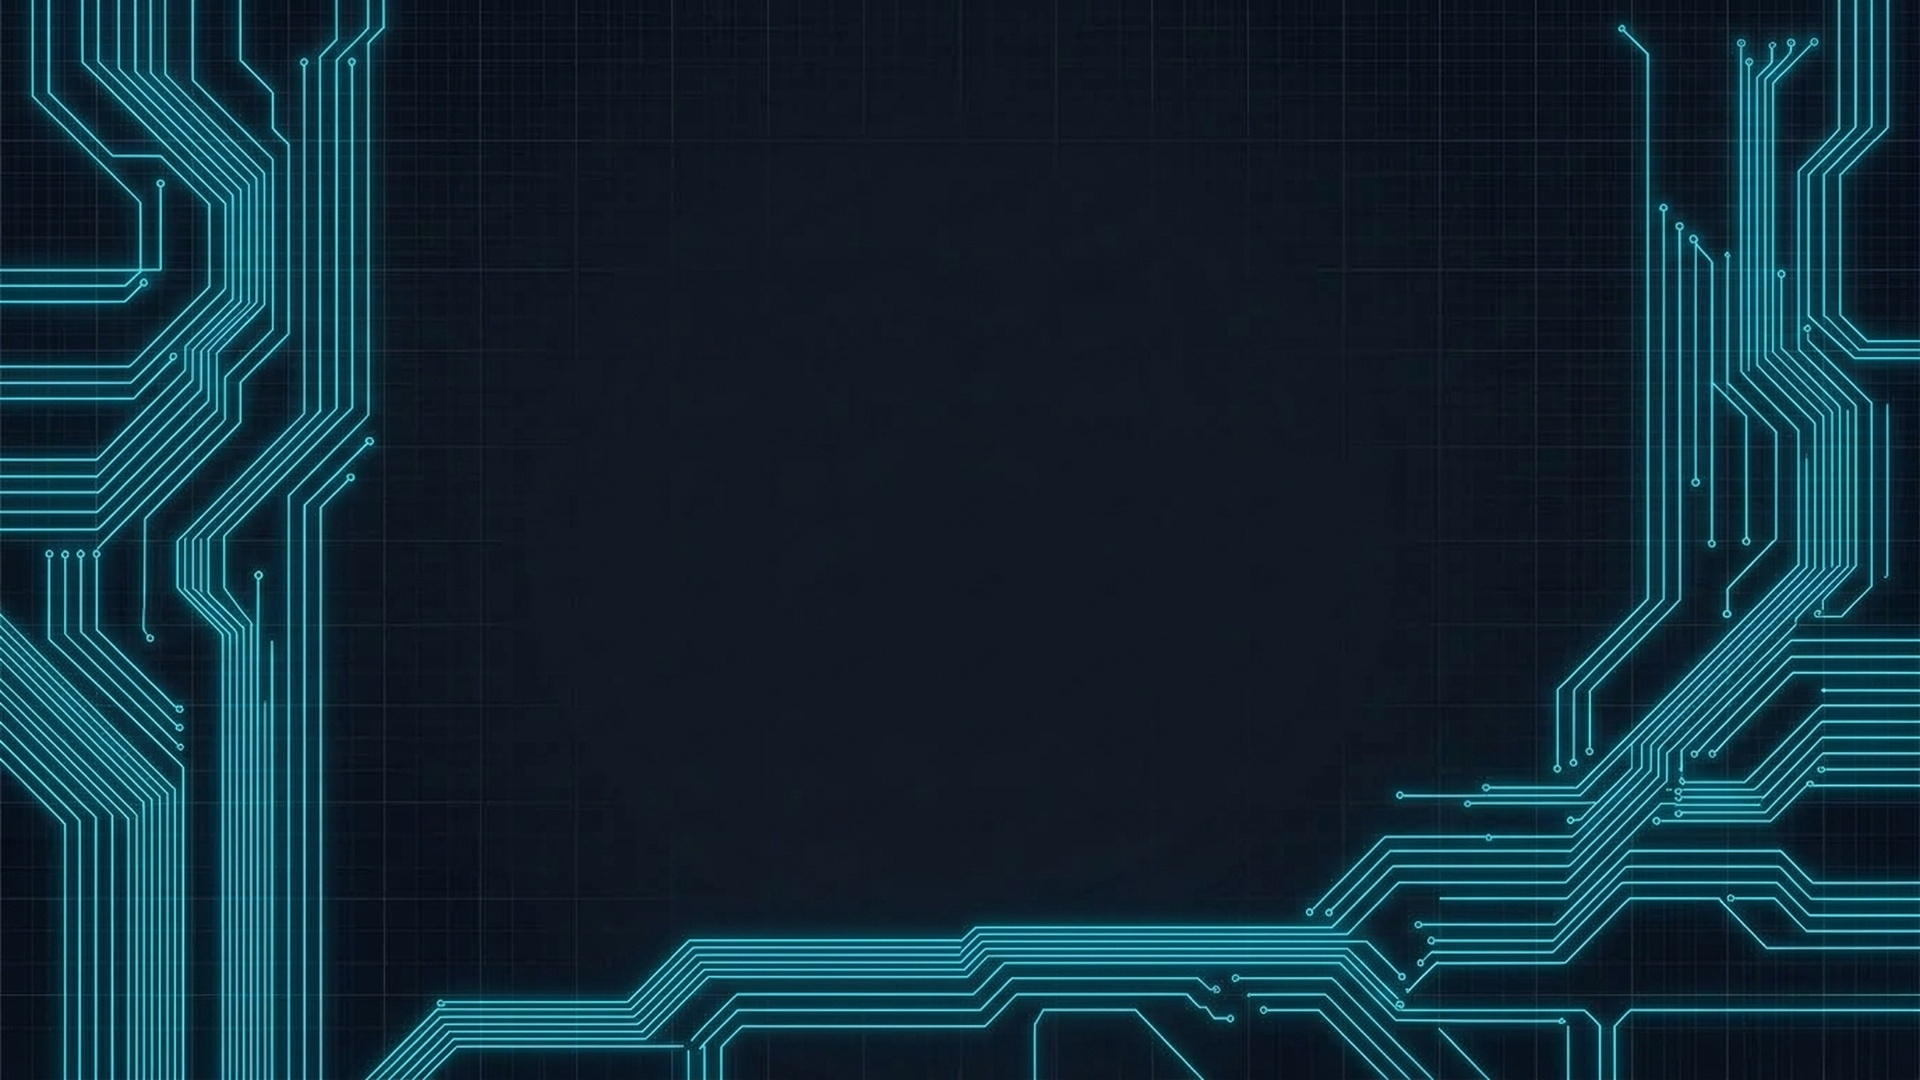
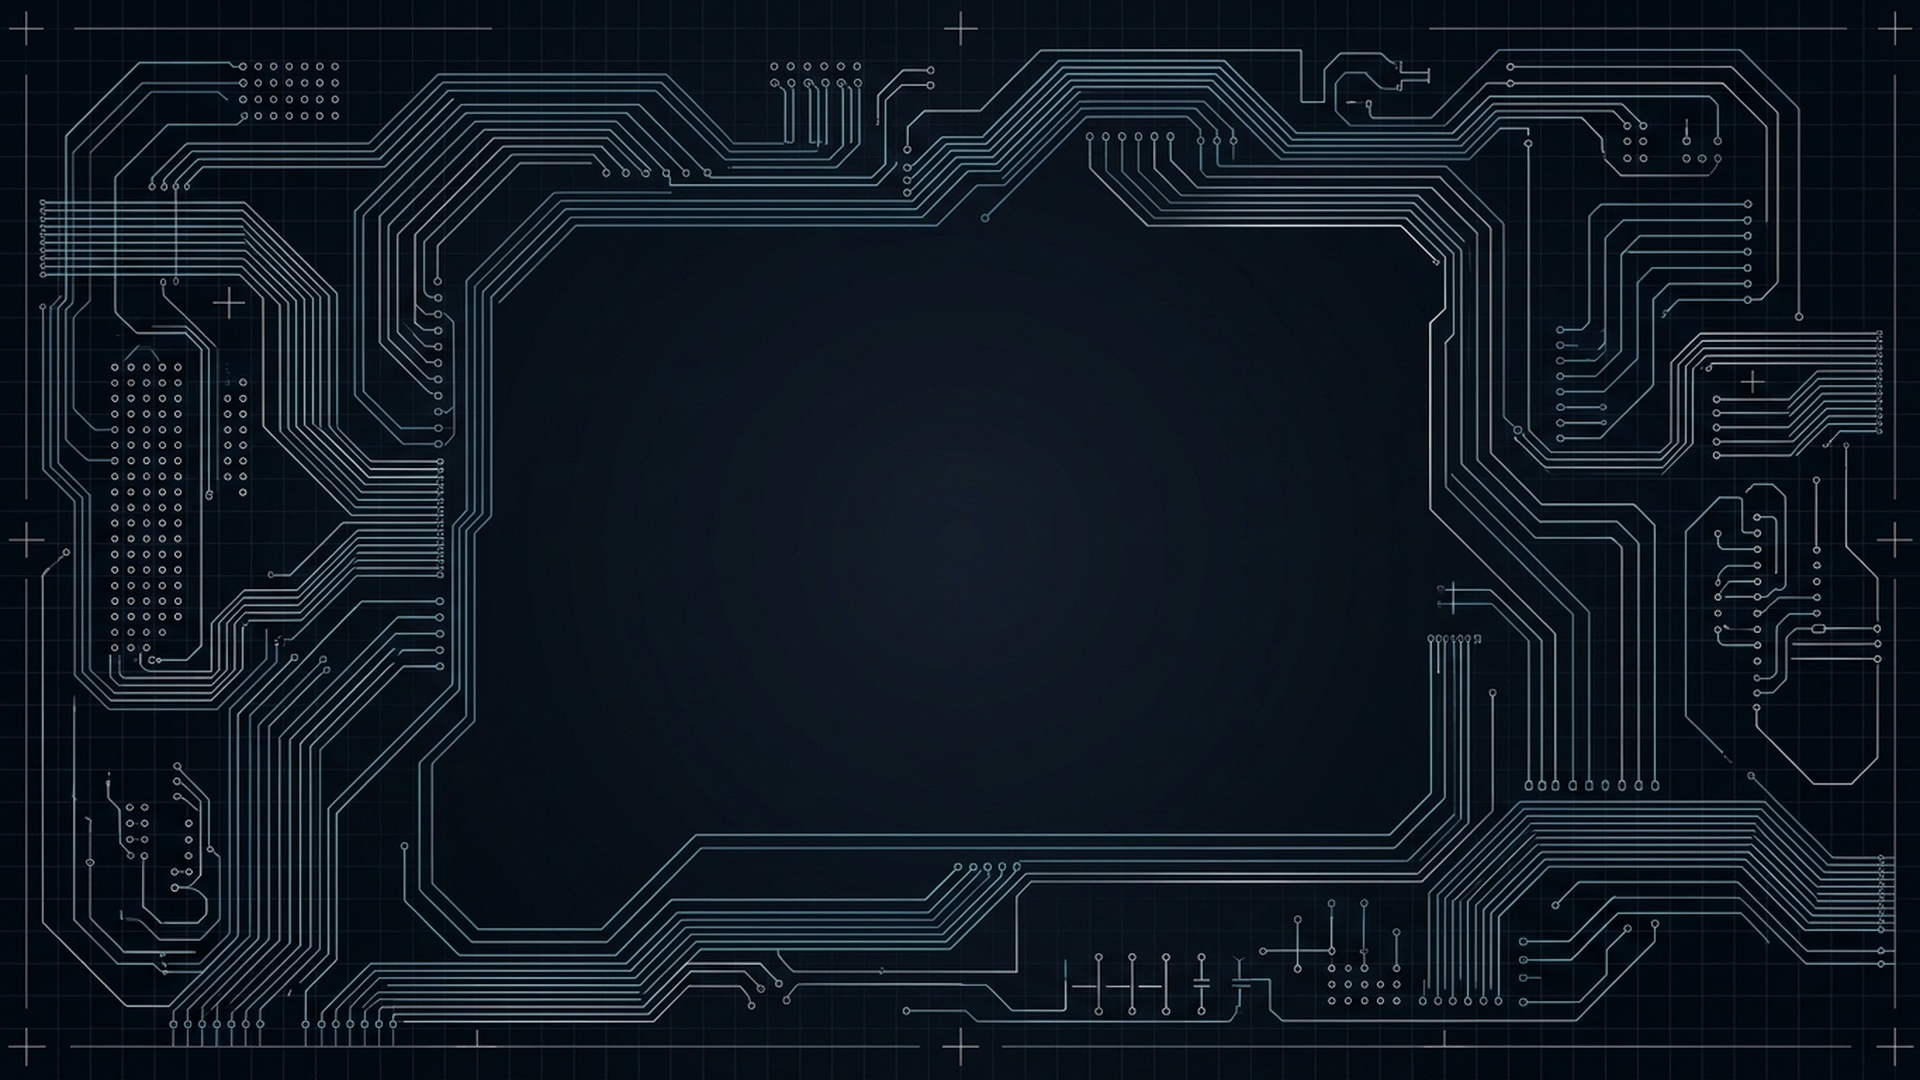
circuit board

diff --git a/frontend/sw.js b/frontend/sw.js
@@ -1,4 +1,4 @@
-const CACHE_NAME = 'rj-portfolio-v29';
+const CACHE_NAME = 'rj-portfolio-v30';
 const CACHE_EXPIRATION_DAYS = 7;
 const CACHE_EXPIRATION_MS = CACHE_EXPIRATION_DAYS * 24 * 60 * 60 * 1000;
 

diff --git a/.claude/specs/2026-09-17-circuit-backdrop-redesign.md b/.claude/specs/2026-09-17-circuit-backdrop-redesign.md
@@ -1,0 +1,202 @@
+# Technical Specification: Bespoke Data-Engineering Circuit Schematic Backdrop Redesign
+
+**Related Intent**: [.claude/intents/2026-09-17-circuit-backdrop-redesign.md](file:///c:/Users/inbox_inm6dkz/OneDrive/Documents/GitHub/rjWebApp/.claude/intents/2026-09-17-circuit-backdrop-redesign.md)  
+**Target Audience**: Visitor / Recruiter (uncompromising aesthetic beauty, instant engineering authority), Work Sample (clean vanilla CSS architecture, zero framework bloat)
+
+---
+
+## 1. Architectural Impact & Component Overview
+
+- **Impacted Layers**:
+  - [x] Graphic Assets (`assets/site-backdrop-master.jpg`, `frontend/site-backdrop.webp`, `frontend/site-backdrop.jpg`)
+  - [x] Frontend Stylesheet (`frontend/styles.css` — tokens `--backdrop-scrim`, `--backdrop-tint`, `.site-backdrop` blend rules)
+  - [x] Asset Build Pipeline (`scripts/generate_backdrop.py`)
+  - [ ] Standalone App Pages (`frontend/arcade.*`, `cron.*`, `crypto.*`, `json.*`, `diff.*`, `ucl.html`, `worldcup.html`) — **Strictly untouched by design**
+  - [ ] Backend API & Services — N/A
+  - [ ] Database Schema & Migrations — N/A
+
+---
+
+## 2. Artistic & UI/UX Composition Blueprint: "The Silicon Pipeline"
+
+### 2.1 Thematic Translation: Hardware Clipart vs. Distributed Data Architecture
+
+A principal data engineer's portfolio requires a visual identity rooted in **data streams, partitioned buses, pipeline DAGs, and distributed state**, not generic electronic solder pads or broken stock clipart rulers.
+
+| Graphic Element | Legacy Backdrop (The Problem) | Redesigned "Silicon Pipeline" (The Solution) |
+| :--- | :--- | :--- |
+| **Perimeter Frame** | Garbled stock ruler markings (`170 170`, `260 260 280 270`, `min min`, OCR artifacts). | Clean calibration ticks, subtle coordinate registers (`SYS_X`, `SYS_Y`), and precision alignment reticles (+). |
+| **Center Viewport** | 5 solid-bordered rectangular boxes (`COMPUTE MODULE 04`, `DATA PROCESE`, `LOGGIC`) with misspellings directly occluding content. | **Open Central Content Aperture (65% width)** with zero solid boxes. Traces attenuate cleanly before entering the reading zone. |
+| **Trace Topology** | Random, chaotic circuit lines intersecting indiscriminately without clear hierarchy. | **Multi-lane orthogonal data bus ribbons** (45° and 90° PCB-grade traces) mirroring distributed Kafka pipelines, partition fan-outs, and consensus trees. |
+| **Micro-Annotations** | Illegible gibberish, blurry AI artifacts, and misspelled English. | Razor-sharp technical monospace micro-labels: `INGEST_BUS_01`, `SHARD_PARTITION[0..15]`, `STREAM_SYNC_OK`, `DAG_NODE_ALPHA`, `BUFFER_POOL`. |
+| **Light Theme Inversion** | Solid dark rectangles invert to dirty, muddy grey blocks under cards. | Fine hairline strokes (1px–2px) on pure dark ground invert cleanly into a **crisp architectural blueprint / technical drafting vellum**. |
+
+---
+
+### 2.2 Spatial Layout & Coordinate Architecture (1920 × 1080 Native Frame)
+
+The composition follows an **orchestrated framing hierarchy**:
+
+```
+(0,0) ───────────────────────────────────────────────────────────────── (1920,0)
+│  [TOP-LEFT: INGEST CLUSTER]                     [TOP-RIGHT: TELEMETRY NODES] │
+│  - 8-lane parallel partition bus                 - Circular via constellation│
+│  - Clock trace & sync reticles                   - Monospace status registers│
+│  - Stream intake fan-in                          - High-frequency trace tree │
+│                                                                              │
+│             ┌───────────────────────────────────────────────┐                │
+│             │                                               │                │
+│  [LEFT BUS] │           CENTRAL CONTENT APERTURE            │ [RIGHT BUS]    │
+│  - Vertical │                                               │ - Multi-stage  │
+│    spine    │   - 65% width quiet negative space            │   DAG fan-out  │
+│  - Breakout │   - Attenuated hairline traces (<15% opacity) │ - Shard split  │
+│    doglegs  │   - Zero solid boxes or visual collisions     │   buses        │
+│  - Micro-via│   - Perfect backdrop for Hero, About, Resume, │ - Alignment    │
+│    matrix   │     Apps, Activity telemetry, and Terminal    │   fiducials    │
+│             │                                               │                │
+│             └───────────────────────────────────────────────┘                │
+│                                                                              │
+│  [BOTTOM-LEFT: STORAGE FABRIC]               [BOTTOM-RIGHT: CONSENSUS RING]  │
+│  - Horizontal trunk routing                  - Concentric orbital micro-paths│
+│  - Low-profile baseline bus                  - State machine logic vias      │
+(0,1080) ───────────────────────────────────────────────────────────── (1920,1080)
+```
+
+#### Detailed Zone Definitions:
+1. **The Left Pipeline Corridor (X: 0 → 320, Y: 0 → 1080)**:
+   - Primary high-throughput data intake trunk.
+   - Features 8 to 16 parallel micro-traces running vertically, branching into 45° doglegs toward the center before terminating in clean via matrices.
+2. **The Right Pipeline Corridor (X: 1600 → 1920, Y: 0 → 1080)**:
+   - Analytical egress and distributed processing bus.
+   - Interconnected logic gate symbols, memory addressing tracks, and stream aggregation nodes.
+3. **The Upper & Lower Horizons (Y: 0 → 140, Y: 940 → 1080)**:
+   - Perimeter structural bus running horizontally to frame the viewport top and bottom without obstructing navigation bars or footers.
+4. **The Central Content Aperture (X: 320 → 1600, Y: 120 → 960)**:
+   - 90% cleared of high-frequency geometry. Only faint, elegant connective pass-through traces with low opacity survive here, providing continuity between the left and right corridors without interfering with text.
+
+---
+
+## 3. Color Science, Blend Modes & Dual-Theme Contract
+
+The backdrop is rendered as a single dual-mode asset leveraging CSS blend modes and mathematical color mixing:
+
+### 3.1 Dark Theme Contract (Default Presentation)
+- **Asset Ground**: Deep void slate (`#0b0f19` to `#0e1422`).
+- **Trace Coloration**: Precision cool cyan-slate (`#38bdf8` at 60–85% lightness) on the master asset.
+- **Blending Pipeline**:
+  ```css
+  .site-backdrop::before {
+    background-color: var(--backdrop-tint);
+    background-blend-mode: luminosity;
+  }
+  ```
+  - `luminosity` extracts the luminance from the master drawing and adopts the exact hue and saturation of `--backdrop-tint`.
+  - Because `--backdrop-tint` is derived from `color-mix(in srgb, var(--accent-text) 32%, #79899a)`, the circuit traces dynamically harmonize with whichever accent color the visitor chooses in the theme customizer (citron, azure, violet, emerald, amber).
+
+### 3.2 Light Theme Inversion Contract
+- In light mode, the single dark asset is inverted without downloading a second file:
+  ```css
+  body:not(.dark-theme) .site-backdrop::before {
+    filter: invert(1) hue-rotate(180deg) saturate(0.45) brightness(1.04);
+  }
+  ```
+- **Inversion Mechanics**:
+  - `invert(1)` flips `#0e1422` (near-black ground) into `#f1ebdd` (pale blueprint background) and flips the cyan lines into warm tones.
+  - `hue-rotate(180deg)` restores the cool architectural cyan/slate tint.
+  - `saturate(0.45)` and `brightness(1.04)` tone the lines down to a subtle drafting pencil grey-slate (`#94a3b8`).
+  - Because the redesigned master contains **no solid dark fills**, light mode produces an immaculate technical blueprint on drafting paper with zero dirty grey blocks.
+
+### 3.3 Contrast Scrim Token Calibration
+The overlay scrim (`.site-backdrop::after`) ensures that text legibility always surpasses WCAG 2.2 AA (>= 4.5:1) sitewide:
+```css
+:root {
+  --backdrop-scrim: radial-gradient(
+    ellipse 75% 65% at 50% 50%,
+    color-mix(in srgb, var(--bg) 92%, transparent) 0%,
+    color-mix(in srgb, var(--bg) 78%, transparent) 100%
+  );
+  --backdrop-tint: color-mix(in srgb, var(--accent-text) 32%, #79899a);
+}
+
+body.dark-theme {
+  --backdrop-scrim: radial-gradient(
+    ellipse 75% 65% at 50% 50%,
+    color-mix(in srgb, var(--bg) 88%, transparent) 0%,
+    color-mix(in srgb, var(--bg) 75%, transparent) 100%
+  );
+  --backdrop-tint: color-mix(in srgb, var(--accent-text) 35%, #475569);
+}
+```
+
+---
+
+## 4. Asset Generation & Compression Pipeline
+
+1. **Master Graphic Creation**:
+   - Master source file: `assets/site-backdrop-master.jpg` (or `.png`).
+   - Dimensions: 1920 × 1080 (16:9 standard viewport ratio).
+   - Format: RGB lossless PNG or high-quality progressive JPEG (>95 quality).
+2. **Build Transformation via `scripts/generate_backdrop.py`**:
+   - WebP Derivative: `frontend/site-backdrop.webp`
+     - Quality: 82 (tuned to eliminate DCT ringing around 1px hairlines).
+     - Method: 6 (libwebp slowest, optimal compression).
+     - Expected size: ~70–90 KB.
+   - JPEG Fallback: `frontend/site-backdrop.jpg`
+     - Quality: 86 with Huffman optimization and progressive scans.
+     - Expected size: ~180–220 KB.
+3. **Build Bundling**:
+   - `scripts/build.mjs` (esbuild) reads `site-backdrop.webp` and `site-backdrop.jpg` through `image-set()` in `styles.css`, content-hashes them into `dist/assets/`, and rewrites references.
+
+---
+
+## 5. Implementation & Rollout Steps
+
+### Step 1: Design & Render New Master Asset
+- Compose the vector/raster master asset adhering to the 1920×1080 coordinate layout in §2.2.
+- Ensure 0% solid block fills and verify all micro-labels are spelled accurately.
+- Save to `assets/site-backdrop-master.jpg`.
+
+### Step 2: Generate WebP and JPEG Derivatives
+- Run:
+  ```bash
+  python scripts/generate_backdrop.py
+  ```
+- Verify output sizes: WebP <= 120 KB, JPEG <= 300 KB.
+
+### Step 3: Calibrate CSS Blending & Tokens
+- Confirm `.site-backdrop` in `frontend/styles.css` handles the new asset with the specified radial aperture scrim.
+- Verify light theme inversion produces a clean drafting paper schematic.
+
+### Step 4: Verification & Quality Gates
+- Run complete test suite and linters to ensure zero regressions.
+
+---
+
+## 6. Verification & Test Plan
+
+Execute canonical verification commands:
+
+```bash
+# 1. Verify CSS and JS linting passes without errors
+npm run lint
+
+# 2. Execute full automated frontend test suite (510+ tests)
+npm test
+
+# 3. Verify production build and budget limits (CSS <= 288 KiB)
+npm run build
+
+# 4. Verify CSP inline-script hashes
+python scripts/check_csp_hashes.py
+
+# 5. Synchronize documentation token figures and line counts
+python scripts/check_docs.py --fix --show-tokens
+```
+
+### Visual Inspection Checklist:
+1. **Aperture Clarity**: Central 65% viewport allows hero title, intro copy, and section cards to be read effortlessly.
+2. **Perimeter Framing**: Left and right margins showcase crisp, high-density data pipeline buses.
+3. **Typographic Integrity**: Monospace annotations contain zero misspellings, nonsense numbers, or OCR glitches.
+4. **Theme Parity**: Light theme renders as a crisp architectural blueprint; dark theme renders as an illuminated deep-slate engineering console.
+5. **Dynamic Theme Customizer**: Switching palettes (citron, azure, violet) smoothly re-tints the backdrop traces via `--backdrop-tint`.
+6. **Mobile Gate**: Coarse pointer devices (`<= 768px`) hide the backdrop cleanly, preserving battery and mobile readability.

diff --git a/.claude/intents/2026-09-17-circuit-backdrop-redesign.md b/.claude/intents/2026-09-17-circuit-backdrop-redesign.md
@@ -1,0 +1,66 @@
+# Intent: Bespoke Data-Engineering Circuit Schematic Backdrop Redesign
+
+## 1. Problem & Persona Context
+
+- **Target Persona Priority**:
+  - [x] 1. Visitor / Recruiter (Priority: First impression visual excellence, instantaneous engineering credibility, distraction-free reading, 4.5:1+ WCAG AA text contrast)
+  - [x] 2. Portfolio as a Work Sample (Priority: High-craft architectural discipline, zero framework dependencies, pure CSS/SVG asset integration, strict CSS size budget)
+  - [ ] 3. Owner (Priority: Authentic representation of Principal Data Engineering systems — Kafka streams, distributed pipelines, consensus rings — rather than generic stock hardware clipart)
+
+- **Problem Statement**:
+  The current portfolio background (`frontend/site-backdrop.webp`, derived from `assets/site-backdrop-master.jpg`) was introduced to replace the retired Three.js canvas across all 8 SPA sections. However, from the perspective of elite UI/UX engineering and graphic design, the asset has critical visual and thematic flaws:
+  
+  1. **Stock Clipart Artifacts & Broken Scales**: The perimeter features nonsensical measurement rulers with repeating, corrupted numbers (`170 170`, `260 260 280 270`, `min min`) and OCR noise. These hallmarks of cheap stock vectors degrade the portfolio's credibility for a Principal Engineer.
+  2. **Severe Spelling Errors**: The center graphic contains glaring typographical errors (`"DATA PROCESE MODULE 05"` and `"INFRASTRUCTURE LOGGIC"`). A portfolio highlighting data quality and precision cannot feature misspellings in its primary aesthetic ground.
+  3. **Content Clutter & Anti-Content Focus**: Five dense, solid rectangular boxes are clustered in the lower-middle viewport. This directly collides with the hero console, profile card, terminal, and section cards, creating visual friction and muddying typography.
+  4. **Muddy Light-Theme Inversion**: In light mode, CSS `filter: invert(1)` turns solid dark boxes and blue nodes into murky charcoal/grey smudges beneath clean white cards.
+  5. **Thematic Disconnect**: The imagery depicts vintage electronic hardware (resistors, solder pads, IC sockets) rather than modern distributed data architecture (streaming event buses, partition trees, sharded clusters, DAG pipelines).
+
+  **The Redesign Objective**:
+  Create a bespoke, museum-grade technical schematic backdrop titled **"The Silicon Pipeline" (Distributed Neural Bus)**. It will frame the viewport with delicate 45°/90° multi-lane data bus corridors, partition streams, and precision registration marks around the margins while preserving an open, tranquil **Central Content Aperture** (65% width) that ensures flawless typography readability in both dark and light themes.
+
+---
+
+## 2. Constraints & Non-Goals
+
+- **Inviolable Constraints**:
+  - **ADR-001**: Pure vanilla ES modules and vanilla CSS. Zero third-party runtime frameworks (no React, Three.js, PixiJS, or WebGL).
+  - **ADR-016**: Zero third-party asset requests. All background images (`site-backdrop.webp`, `site-backdrop.jpg`) must remain self-hosted, local, and content-hashed by esbuild.
+  - **ADR-024 / ADR-025**: Must integrate seamlessly with the design token architecture in `frontend/styles.css` (`--backdrop-tint`, `--backdrop-scrim`, `--bg`, `--surface`, `--accent-fill`).
+  - **Theme Invertibility**: The master graphic must be designed with clean hairline stroke weights and zero solid opaque block fills, allowing light theme CSS inversion (`filter: invert(1) hue-rotate(180deg)...`) to render as an authentic, crisp architectural drafting blueprint.
+  - **Strict Contrast Headroom**: All section content, cards, and body text must maintain >= 4.5:1 WCAG AA contrast (with headings >= 7:1 AAA) across all themes.
+  - **CSS Size Budget**: Final CSS bundle must remain strictly under the 288 KiB ceiling enforced by `scripts/build.mjs`.
+  - **Standalone App Isolation**: Standalone tools and games (`arcade`, `cron`, `crypto`, `json`, `diff`, `ucl`, `worldcup`) must remain strictly excluded from the SPA backdrop.
+
+- **Explicit Non-Goals**:
+  - Replacing the backdrop with a continuous JavaScript rAF rendering loop or heavy canvas animation that burns battery or GPU cycles.
+  - Introducing heavy glowing drop-shadow filters or blurred duplicate raster planes in CSS that cause compositor lag.
+  - Modifying the underlying content, routing, or structure of the 8 SPA sections.
+
+---
+
+## 3. Impacted Layer Matrix & Quality Gates
+
+Determine impacted layers and execute matching quality gates:
+
+- [x] **Frontend**:
+  - Assets: `assets/site-backdrop-master.jpg` (new high-resolution 1920x1080 master), `frontend/site-backdrop.webp`, `frontend/site-backdrop.jpg`
+  - Styles: `frontend/styles.css` (refine `--backdrop-scrim`, `--backdrop-tint`, `.site-backdrop` blend rules)
+  - Scripts: `scripts/generate_backdrop.py` (process and optimize WebP/JPEG derivatives)
+  - Gates: `npm run lint` && `npm test` && `npm run build`
+- [ ] **Backend**: N/A — no backend services, models, or endpoints impacted.
+- [ ] **Database**: N/A — no schema migrations.
+- [x] **Docs / Hashes / Quality Verification**:
+  - `python scripts/check_csp_hashes.py` (verify CSP script hashes remain intact)
+  - `python scripts/check_docs.py --fix --show-tokens` (synchronize reference and navigation line counts and token estimates)
+
+---
+
+## 4. Risks & Mitigations
+
+- **Risk: Content Readability Conflicts on Low-Contrast Displays**:
+  - *Mitigation*: Implement an engineered **Radial Content Aperture** in `--backdrop-scrim`. The central 65% reading zone applies a 90–94% wash of `--bg`, gracefully opening to 75–80% along the peripheral margins where the high-density streaming buses frame the screen.
+- **Risk: Light Theme Visual Mud & Dirty Grays**:
+  - *Mitigation*: The new master graphic will eliminate all solid filled rectangular boxes and gradient drop shadows. With only clean 1px–2px hairline traces and micro-vias, CSS inversion transforms the asset into a crisp engineering cyanotype/vellum blueprint with zero muddy rectangles.
+- **Risk: Mobile Performance & Clutter**:
+  - *Mitigation*: Preserve the established `@media (pointer: coarse) and (width <= 768px)` gate in `styles.css` that hides `.site-backdrop` on phones, ensuring zero battery drain and maximum readability on handheld screens.
